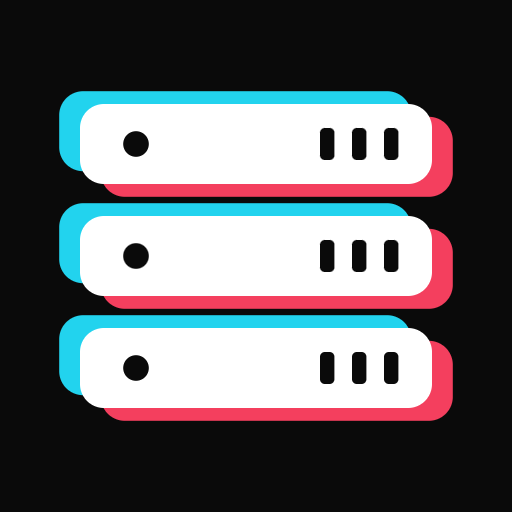
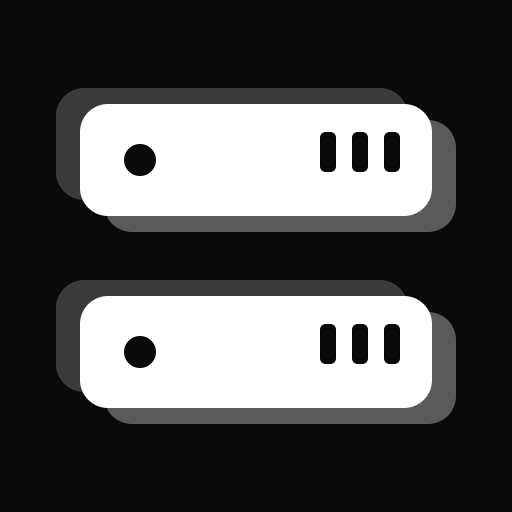
feat(brand): use two thick grayscale server blades

Changed region(s): [[0.0938, 0.1562, 0.9062, 0.8438]]

diff --git a/web/src/styles.css b/web/src/styles.css
@@ -8,8 +8,8 @@
   --brand-mark-bg: #ffffff;
   --brand-mark-front: #0a0a0a;
   --brand-mark-detail: #ffffff;
-  --brand-mark-cyan: #22d3ee;
-  --brand-mark-coral: #f43f5e;
+  --brand-mark-layer-soft: #d4d4d4;
+  --brand-mark-layer-deep: #8a8a8a;
   --muted: #737373;
   --line: #e5e5e5;
   --primary: #171717;
@@ -79,8 +79,8 @@ html[data-theme="dark"] {
   --brand-mark-bg: #0a0a0a;
   --brand-mark-front: #fafafa;
   --brand-mark-detail: #0a0a0a;
-  --brand-mark-cyan: #22d3ee;
-  --brand-mark-coral: #f43f5e;
+  --brand-mark-layer-soft: #3a3a3a;
+  --brand-mark-layer-deep: #5a5a5a;
   --muted: #a1a1a1;
   --line: rgba(255, 255, 255, .1);
   --primary: #e5e5e5;

diff --git a/web/src/components/Wordmark.tsx b/web/src/components/Wordmark.tsx
@@ -2,7 +2,7 @@ export function Wordmark() {
   return (
     <span className="wordmark" role="img" aria-label="DC-DB">
       <svg className="wordmark-symbol" viewBox="0 0 64 64" aria-hidden="true" focusable="false">
-        <use href="/brand/mark.svg?v=server-15#dc-db-symbol" />
+        <use href="/brand/mark.svg?v=server-17#dc-db-symbol" />
       </svg>
       <span className="wordmark-text" aria-hidden="true">DC-DB</span>
     </span>

diff --git a/web/index.html b/web/index.html
@@ -4,7 +4,7 @@
     <meta charset="UTF-8" />
     <meta name="viewport" content="width=device-width, initial-scale=1.0" />
     <meta name="theme-color" content="#ffffff" />
-    <link rel="icon" type="image/svg+xml" href="/logo.svg?v=dc-db-22" sizes="any" />
+    <link rel="icon" type="image/svg+xml" href="/logo.svg?v=dc-db-24" sizes="any" />
     <script>
       try {
         const saved = localStorage.getItem('dc-db-theme');

diff --git a/docs/brand.md b/docs/brand.md
@@ -1,6 +1,6 @@
 # DC-DB 品牌标识
 
-正式标志是三台完全相同的 1U 服务器刀片。青色层向左上偏移，珊瑚红层向右下偏移，正面使用黑色或白色，形成平面层叠的立体效果。图形不使用第三方品牌图形，也不把颜色当作实时状态。
+正式标志是两台完全相同的加厚 1U 服务器刀片。浅灰层向左上偏移，深灰层向右下偏移，正面使用黑色或白色，形成黑灰白单色的平面层叠效果。图形不使用第三方品牌图形，也不把颜色当作实时状态。
 
 ## 文件与用途
 
@@ -11,18 +11,18 @@
 | [`mark.svg`](../web/public/brand/mark.svg) | 随系统主题切换背景和正面的图形母版；包含可复用的 `dc-db-symbol` |
 | [`logo-light.svg`](../web/public/brand/logo-light.svg) | 整幅白底、黑色刀片与字标，用于浅色主题 |
 | [`logo-dark.svg`](../web/public/brand/logo-dark.svg) | 整幅黑底、白色刀片与字标，用于暗色主题 |
-| [`avatar.svg`](../web/public/brand/avatar.svg) | 纯黑底、白色刀片与青色/珊瑚色错位层的头像源文件 |
+| [`avatar.svg`](../web/public/brand/avatar.svg) | 纯黑底、白色刀片与灰色错位层的头像源文件 |
 | [`avatar-512.png`](../web/public/brand/avatar-512.png) | 512×512 PNG，可用于 GitHub 头像上传 |
-| [`social-preview.svg`](../web/public/brand/social-preview.svg) | 纯黑底、白色刀片、青色/珊瑚色错位层与字标的仓库分享预览源文件 |
+| [`social-preview.svg`](../web/public/brand/social-preview.svg) | 纯黑底、白色刀片、灰色错位层与字标的仓库分享预览源文件 |
 | [`social-preview.png`](../web/public/brand/social-preview.png) | 1280×640 PNG，可用于 GitHub 仓库 Social preview |
 
 SVG 是可缩放、可编辑的主版本。PNG 是针对上传场景的导出文件：GitHub 的[头像格式说明](https://docs.github.com/en/account-and-profile/reference/profile-reference)列出 PNG、JPG 和 GIF；[仓库分享预览](https://docs.github.com/en/repositories/managing-your-repositorys-settings-and-features/customizing-your-repository/customizing-your-repositorys-social-media-preview)推荐 1280×640，且文件小于 1 MB。PNG 素材已经按这些尺寸导出；头像属于账号或组织，仓库分享预览则在仓库设置中配置。
 
 ## 系统与文档使用
 
-- 登录页和左侧栏通过 `Wordmark.tsx` 组合图形和字标，图形从 `mark.svg#dc-db-symbol` 引用，保持单一几何来源；文字提供可访问名称，装饰图形对读屏隐藏。系统引用的图形由 `styles.css` 中的 `--brand-mark-bg`、`--brand-mark-front`、`--brand-mark-detail`、`--brand-mark-cyan`、`--brand-mark-coral` 跟随用户选择的主题。
-- 图形母版画布为 64×64。三台刀片位于 `x=10..54`，高为 `10`，圆角为 `3`，纵向起点为 `13/27/41`；每台带一个状态灯和三个散热槽。青色层偏移 `(-2.6, -1.6)`，珊瑚层偏移 `(2.6, 1.6)`，正面层不偏移。
-- 浅色主题使用白底、黑色正面和白色细节；暗色主题使用黑底、白色正面和黑色细节。青色和珊瑚色在两个主题中保持一致，只作为层叠侧边出现。
+- 登录页和左侧栏通过 `Wordmark.tsx` 组合图形和字标，图形从 `mark.svg#dc-db-symbol` 引用，保持单一几何来源；文字提供可访问名称，装饰图形对读屏隐藏。系统引用的图形由 `styles.css` 中的 `--brand-mark-bg`、`--brand-mark-front`、`--brand-mark-detail`、`--brand-mark-layer-soft`、`--brand-mark-layer-deep` 跟随用户选择的主题。
+- 图形母版画布为 64×64。两片刀片位于 `x=10..54`，高为 `14`，圆角为 `3.5`，纵向起点为 `13/37`，中间间距为 `10`；每片带一个状态灯和三个散热槽。浅灰层偏移 `(-3, -2)`，深灰层偏移 `(3, 2)`，正面层不偏移。
+- 浅色主题使用白底、黑色正面和白色细节，浅灰层为 `#D4D4D4`、深灰层为 `#8A8A8A`；暗色主题使用黑底、白色正面和黑色细节，浅灰层为 `#3A3A3A`、深灰层为 `#5A5A5A`。
 - 主版背景使用黑／白实底，不再透明。直接打开 `mark.svg` 或 favicon `logo.svg` 时，通过 `prefers-color-scheme` 跟随系统主题；组合标使用各自固定的整幅白底或黑底，头像和分享素材固定使用纯黑底。
 - GitHub README 使用 `picture` 在浅底和深底组合标之间切换，不依赖外部字体。独立 SVG 的字标已转为路径。
 - 图形单独显示建议不小于 16px；系统品牌区使用约 28px，登录页约 40px。图形周围与字标之间保留清晰间隔，不拉伸、旋转或改变刀片与错位层的比例。
